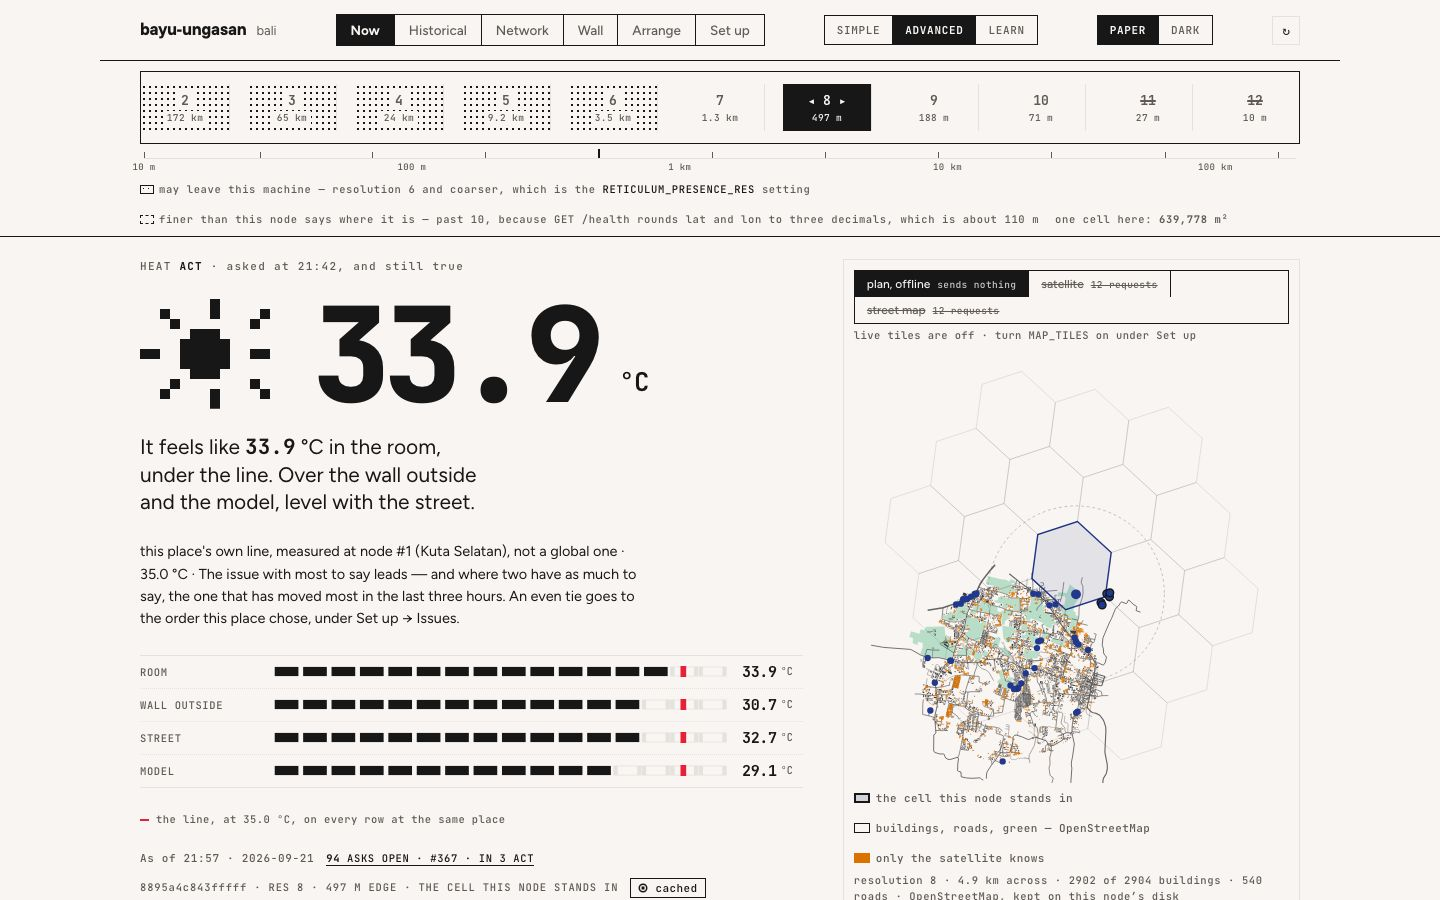
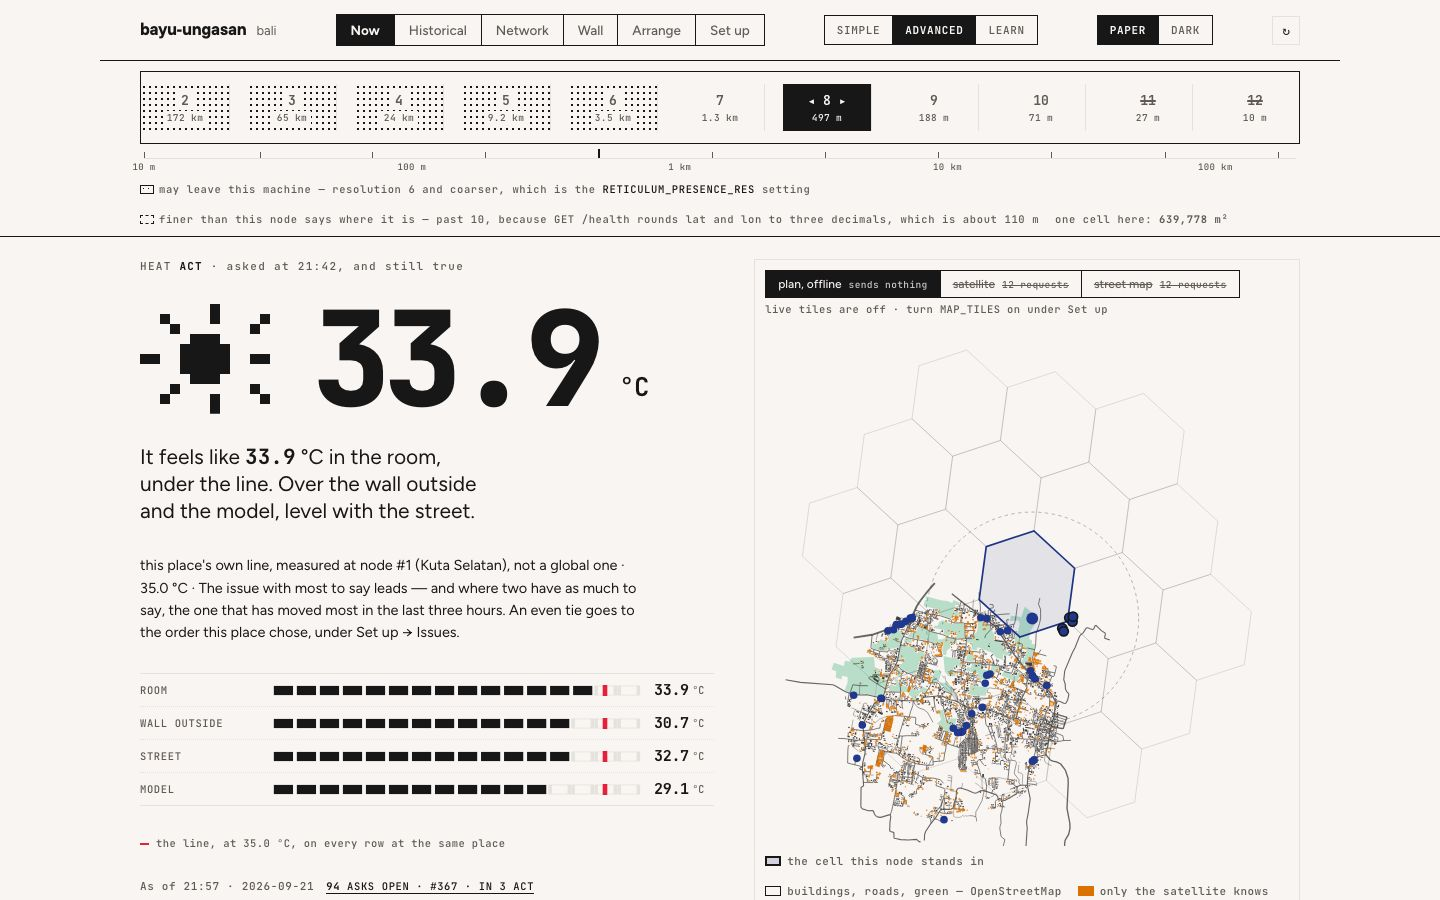
the lead's text column is its measure, and the drawing takes the rest
T2c's decomposition put 79 % air in the tenth at 720-864 and I called it a
gutter between the columns. It was not: that gap is 40 px. It was the
right-hand third of the LEFT column, sized 1.45fr and coming out 663 px wide
to hold a sentence that stops at 404 and a why line that stops at 502. For
every row above the meters, 160-240 px of that column was empty.

  .lead { grid-template-columns: minmax(0, 56ch) minmax(340px, 1fr); }

56ch is the measure the column actually carries. The 340 px floor is the
other half, and it exists because the obvious version was worse: a fixed text
column alone starved the drawing to 266 px at a 940 px window, which is
smaller than the proportional rule ever gave it. 340 is what that rule gave
it there, so no width is worse off than before.

Measured on the same grid, with analyse air:

  T2c at 1440, viewport          57.3 % -> 52.4 %
  T2c at 1440, inside the column 47.0 % -> 40.9 %
  the tenth at 720-864           79 %   -> 43 %
  T6 divergences at 1440         6      -> 4

390 is untouched; the rule is behind min-width: 900px. T1, T3, T4 and T5 are
unchanged and green, and there is no horizontal overflow at 900, 940, 1100,
1440 or 1920. The ground panel's three tab chips now fit on one line instead
of wrapping to two, which was not the point.

STILL MISSED at 40.9 % against 30 %, and the rest is not a one-line fix: 43 %
of the air is inside no named component at all, which is the spacing between
[…]

diff --git a/app/static/dashboard.css b/app/static/dashboard.css
@@ -572,7 +572,15 @@ nav span.on, nav button.on { background: var(--ink); color: var(--ground); font-
 .lead .why { max-width: 54ch; font-size: 14.5px }
 .lead .whenline { display: flex; gap: 12px; align-items: center; flex-wrap: wrap }
 @media (min-width: 900px) {
-  .lead { grid-template-columns: minmax(0, 1.45fr) minmax(0, 1fr);
+  /* THE TEXT COLUMN IS ITS MEASURE, AND THE DRAWING HAS A FLOOR.
+     It was `1.45fr 1fr`, which at 1440 gave the left column 663 px to hold a sentence that stops at
+     404 and a why line that stops at 502 — so a 200 px strip of it was empty for every row above
+     the meters, and T2c's own decomposition put 79 % air in the tenth beside it. `56ch` is the
+     measure the column actually carries. The 340 px floor on the drawing is the other half: a fixed
+     text column alone starved the ground to 266 px at a 940 px window; 340 is what the
+     proportional rule gave it there, so no width is worse off than before. Measured with `analyse air`: 57.3 % → 52.4 % of the viewport at
+     1440, 47.0 % → 40.9 % inside the page's own column, and T6 from six divergences to four. */
+  .lead { grid-template-columns: minmax(0, 56ch) minmax(340px, 1fr);
     /* 7px and not 9: six rows of it is 45px of the first screen, and the as-of line was sitting
        five pixels above the fold before the ground panel gained one sentence. */
     grid-template-areas: "k g" "n g" "s g" "w g" "m g" "l g" "t g"; gap: 7px clamp(20px, 3vw, 40px);

diff --git a/docs/HANDOFF_dashboard_redesign.md b/docs/HANDOFF_dashboard_redesign.md
@@ -72,15 +72,23 @@ every pixel of them as a failure — which is why the same page reads 42.5 % on 
 desk. Measured inside the column the page actually draws in: **47.0 % at 1440 and 36.8 % at 390**,
 against goals of 30 % and 20 %. Still missed, and now actionable.
 
-**The gutter is the finding.** Across the width at 1440, the lead's text column runs 41–46 % air
-(normal for type) and the ground figure 25–40 % — but the 290 px between them is **69–79 % air**, and
-it is inside the column, so no margin argument excuses it. By part: `stack #meters-heat` is 54 %
-empty in its own box, `railKey` 54 %, `rail` 45 %, and `ruler` 93 % — a 1,152 × 26 strip carrying
-five labels and a row of ticks. Forty-three per cent of all the air is inside no named component,
-which is spacing between parts rather than the parts themselves.
+**The strip was the left column, and it is fixed.** It was not a gutter between the columns — the
+gap is 40 px. It was the right-hand third of the left column, sized `1.45fr` and 663 px wide to hold
+a sentence that stops at 404 and a why line that stops at 502. The column is now `minmax(0, 56ch)`,
+the measure it carries, and the drawing takes the rest with a 340 px floor so no window is worse off
+than before.
 
-**Nothing has been changed on the page.** What to do about the gutter is a drawing decision and
-belongs to a round. Part four of `docs/design/DIRECTIONS_2026-09.md` carries the full tables.
+| | before | after |
+|---|---|---|
+| T2c at 1440, viewport | 57.3 % | **52.4 %** |
+| T2c at 1440, inside the column | 47.0 % | **40.9 %** |
+| the tenth at 720–864 | 79 % air | **43 %** |
+| T6 divergences at 1440 | 6 | **4** |
+
+**Still missed at 40.9 % against 30 %**, and what remains is spread rather than concentrated: 43 % of
+the air is inside no named component at all, which is the spacing between parts. That is a rhythm
+question for a round, not another one-line fix. Part four of `docs/design/DIRECTIONS_2026-09.md`
+carries the tables and the widths from 900 to 1920.
 
 ## 3 · The contract, as it now stands
 
@@ -295,9 +303,9 @@ to somebody without changing their own page.
 
 - ✅ **done** — prompts 1–6; 58 plates; the T1–T9 table on a matched fixture; the stranger's-pack
   check; `make docs && make lint && make test` and the visual gate all green.
-- ⚠ **open** — **T2c**, restated to measure inside the page's own column: **47.0 % at 1440** and
-  36.8 % at 390 against 30 % and 20 %. The place is known — the 290 px gutter between the lead's
-  sentence and the ground drawing, at 69–79 % air — and what to do about it is a drawing decision.
+- ⚠ **open** — **T2c**, measured inside the page's own column: **40.9 % at 1440** and 36.8 % at 390
+  against 30 % and 20 %. The concentrated part is closed; what is left is spacing between parts,
+  which is a rhythm question for a round.
   T1b's index rows are still absent at 1440, and at 390 T1's ask leg falls below the fold on a sparse
   node. The wall carries two components with no link in or out.
 - ⛔ **needs Tomas** — the tag, which no session takes; a `docs/site/design.md` pass in his own

diff --git a/docs/design/DIRECTIONS_2026-09.md b/docs/design/DIRECTIONS_2026-09.md
@@ -1046,6 +1046,45 @@ of ticks.
 Forty-three per cent of all the air at 1440 is inside no named component at all, which is the
 spacing between parts rather than the parts themselves.
 
-**Nothing here has been changed.** The next person to work on T2c has the number, the place and the
-method; what to do about the gutter is a drawing decision and belongs to a round, not to a
-measurement.
+### What was done about it
+
+The strip was not a gutter between the columns — the column gap is 40 px. It was the **right-hand
+third of the left column**, which was sized `1.45fr` and came out 663 px wide to hold a sentence that
+stops at 404 px and a why line that stops at 502. For every row above the meters, 160–240 px of that
+column was empty, and the tenths beside it read 69 % and 79 %.
+
+The left column is now `minmax(0, 56ch)` — the measure it actually carries — and the drawing takes
+the rest with a 340 px floor:
+
+```css
+.lead { grid-template-columns: minmax(0, 56ch) minmax(340px, 1fr); }
+```
+
+The floor is the other half of it. A fixed text column alone starved the drawing to 266 px at a
+940 px window, which is *smaller* than the proportional rule ever gave it; 340 px is what that rule
+gave it there, so no width is worse off than before. Measured across the range, with no horizontal
+overflow at any of them:
+
+| viewport | text column | drawing | was |
+|---|---|---|---|
+| 900 | 464 | 340 | 464 / 340 |
+| 1100 | 574 | 412 | 623 / 363 |
+| 1440 | 574 | 546 | 663 / 457 |
+| 1920 | 574 | 546 | 663 / 457 |
+
+| | before | after |
+|---|---|---|
+| **T2c** at 1440, viewport | 57.3 % | **52.4 %** |
+| **T2c** at 1440, inside the column | 47.0 % | **40.9 %** |
+| the tenth at 720–864 | 79 % air | **43 %** |
+| **T6** divergences at 1440 | 6 | **4** |
+| page height at 1440 | 11.3 screens | 11.4 |
+
+390 is untouched: the rule is behind `min-width: 900px`. T1, T3, T4 and T5 are unchanged and green.
+The ground panel's three tab chips now fit on one line instead of wrapping to two, which was not the
+point but is the kind of thing a wider drawing buys.
+
+**Still missed, and still the open target.** 40.9 % inside the column against a goal of 30 %. What
+remains is spread rather than concentrated — 43 % of the air is inside no named component at all,
+which is the spacing between parts — and that is a rhythm question for a round, not another
+one-line fix.
